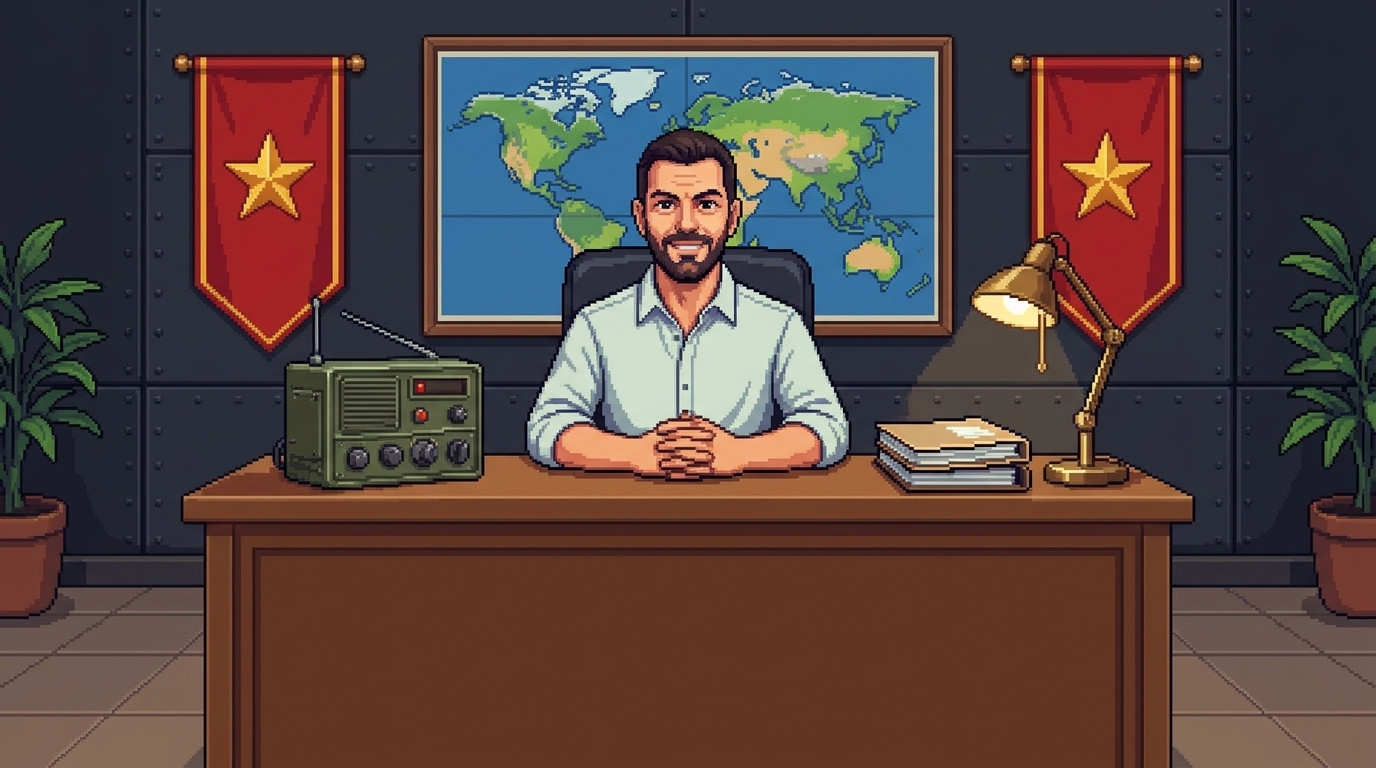
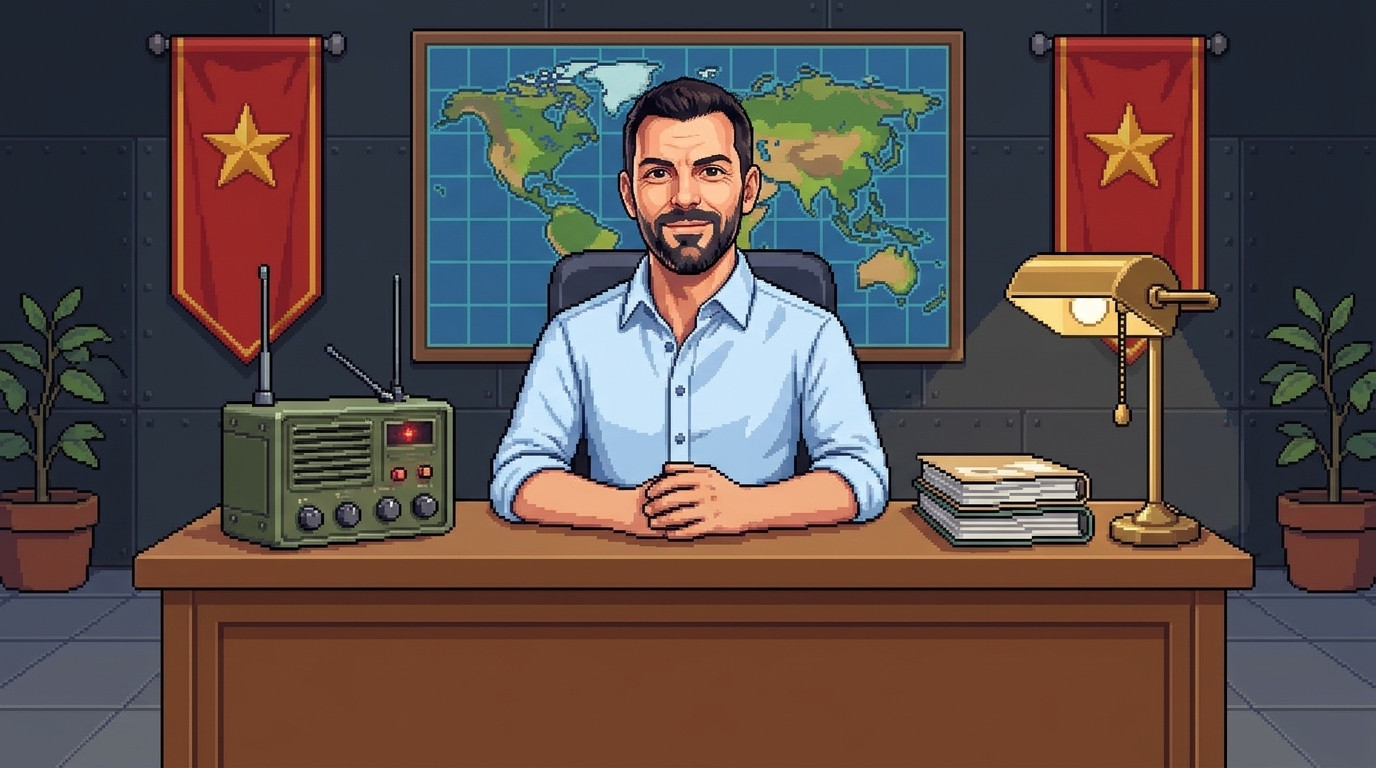
Beufa quiz : nouvelle scène du bureau, chrono en haut à gauche
Claude-Session: https://claude.ai/code/session_01Nh56uCfCYFQpr6HwXFtrQ7

diff --git a/src/bosses/beufa/BeufaQuiz.js b/src/bosses/beufa/BeufaQuiz.js
@@ -55,7 +55,7 @@ export class BeufaQuiz extends BossScene {
     // Un peu plus grande que l'écran (1000×562) : les secousses de Beufa ne montrent jamais de bord.
     if (this.textures.exists('beufa_bureau_scene')) {
       this.scene_ = true;
-      this.busteY = HAUTEUR / 2;
+      this.busteY = HAUTEUR / 2 - 30;   // V87 : remontée pour que ses mains restent au-dessus du codec
       this.buste = this.add.image(LARGEUR / 2, this.busteY, this.masque ? 'beufa_bureau_scene_masque' : 'beufa_bureau_scene');
       return;
     }
@@ -124,9 +124,10 @@ export class BeufaQuiz extends BossScene {
       this.add.rectangle(x, 24, 38, 34, 0x000000, 0.6).setStrokeStyle(2, 0x888888).setDepth(60);
       return texte(this, x, 24, '✕', 30, '#ff3838').setDepth(61).setVisible(false);
     });
-    this.chronoFond = this.add.rectangle(LARGEUR / 2, 52, 404, 12, 0x000000, 0.7).setStrokeStyle(1, 0x888888).setDepth(60).setVisible(false);
-    this.chronoBarre = this.add.rectangle(LARGEUR / 2 - 200, 52, 400, 8, VERT).setOrigin(0, 0.5).setDepth(61).setVisible(false);
-    this.chronoTexte = texte(this, LARGEUR / 2 + 230, 52, '', 16, '#ffffff').setOrigin(0, 0.5).setDepth(61);
+    // V87 : le chrono en haut à gauche (au centre, il passait sur le visage de Beufa)
+    this.chronoFond = this.add.rectangle(170, 52, 304, 12, 0x000000, 0.7).setStrokeStyle(1, 0x888888).setDepth(60).setVisible(false);
+    this.chronoBarre = this.add.rectangle(20, 52, 300, 8, VERT).setOrigin(0, 0.5).setDepth(61).setVisible(false);
+    this.chronoTexte = texte(this, 332, 52, '', 16, '#ffffff').setOrigin(0, 0.5).setDepth(61);
   }
 
   // ---------- le dialogue (machine à écrire) ----------
@@ -333,7 +334,7 @@ export class BeufaQuiz extends BossScene {
     if (this.etape === 'question') {
       this.reste -= dt;
       const k = Math.max(0, this.reste / R.quiz.temps);
-      this.chronoBarre.width = 400 * k;
+      this.chronoBarre.width = 300 * k;
       this.chronoBarre.setFillStyle(this.reste < 10 ? 0xff3838 : VERT);
       this.chronoTexte.setText(Math.ceil(Math.max(0, this.reste)) + ' s');
       if (this.reste < 10 && this.dernierTic === 99) this.visage('machiavelique');   // il savoure ton stress

diff --git a/NOTES.md b/NOTES.md
@@ -898,3 +898,7 @@ Détourage du fond blanc, chaque image remise à la même hauteur (le coureur s'
 - `beufa_bureau_scene(_masque).jpg` (Fabien, pixel art couleur) en fond plein écran (1000×562, un peu plus grand
   que l'écran pour que les secousses ne montrent pas de bord). Si présentes, elles remplacent bureau dessiné,
   bannières, plantes et buste (`this.scene_`) ; le rideau passe de l'une à l'autre. Ancien décor gardé en secours.
+
+## BEUFA — V87 : NOUVELLE SCÈNE SANS MASQUE (choix de Fabien)
+- `beufa_bureau_scene.jpg` remplacée ; scène remontée de 30 px (mains visibles au-dessus du codec) ;
+  chrono déplacé en haut à gauche, 300 px de large (au centre il passait sur le visage).
